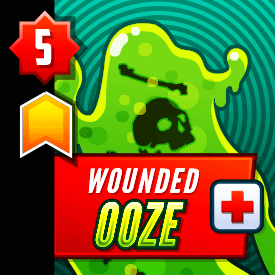
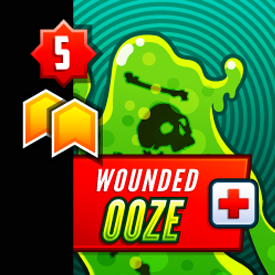
MUTANTS: make champs less complicated, improve biomorph

diff --git a/server/classes/factions/Mutants.js b/server/classes/factions/Mutants.js
@@ -27,8 +27,8 @@ class Mutants extends Faction {
                 influence: 1,
                 resource: 1,
                 cost : 0,
-                description: "Target player sacrifices a patsy in this area (you may choose yourself), if they do you may deploy a Mother Ooze to this area without paying its deploy cost.",
-                req : "this token must be discarded if no player can sacrifice a unit here"
+                description: "Target player sacrifices a patsy in this area (you may choose yourself), if they do you may deploy a unit to this area without paying its deploy cost.",
+                req : "this token must be discarded if no player can sacrifice a patsy here"
             }
         };
 
@@ -42,16 +42,17 @@ class Mutants extends Faction {
             count: 6,
             data: {
                 name: "Mother Ooze",
-                toughness : true,
+                toughness: true,
                 flipped: false,
                 type: 'champion',
                 basic: false,
                 influence: 1,
                 attack: [5],
-                cost: 2,
-                killed : false,
-                selected : false,
-                hitsAssigned : 0
+                cost: 1,
+                killed: false,
+                selected: false,
+                hitsAssigned: 0,
+                onDamaged: 'onOoozeWounded',
             }
         };
     }
@@ -67,6 +68,9 @@ class Mutants extends Faction {
         this.data.upgradeDeploy = upgrade;
     }
 
+    onOozeWounded( unit ){
+        unit.influence = 2;
+    }
 
     /**
      * Handle our Heal Oozes end of turn trigger
@@ -75,7 +79,9 @@ class Mutants extends Faction {
 
         // heal our oozes, and keep track of the areas where we did it
         let areasWithHealedOozes = this.getHealedOozeAreas();
+        this.message( `wounded Mother Oozes heal` );
 
+        /*
         // if we didn't have any wounded oozes, then we are done here
         if( !areasWithHealedOozes.length ) return;
 
@@ -93,6 +99,7 @@ class Mutants extends Faction {
 
             await this.deploy( args );
         }
+         */
     }
 
 
@@ -163,13 +170,22 @@ class Mutants extends Faction {
             free : true,
             fromToken : true,
             deployLimit: 1,
-            unitTypes: ['champion'],
+            //unitTypes: ['champion'],
         };
         let deployed = await this.deploy( options );
 
         this.game().advancePlayer();
     }
 
+    /**
+     * Handle unflipping a unit
+     *
+     * @param unit
+     */
+    unflipUnit( unit ){
+        unit.influence = 1;
+        unit.flipped = false;
+    }
 
     /**
      * Allows the player to choose a faction to biomorph a patsy

diff --git a/server/classes/gameMixins/combat.js b/server/classes/gameMixins/combat.js
@@ -73,6 +73,11 @@ let obj = {
         // if this unit has toughness, isn't wounded, and we are only assigning it one hit then it becomes wounded
         if( count === 1 && unit.toughness && !unit.flipped ){
             unit.flipped = true;
+
+            if( unit.onWounded ) {
+                await owner[unit.onWounded](unit);
+            }
+
             return 'wounds';
         }
 
